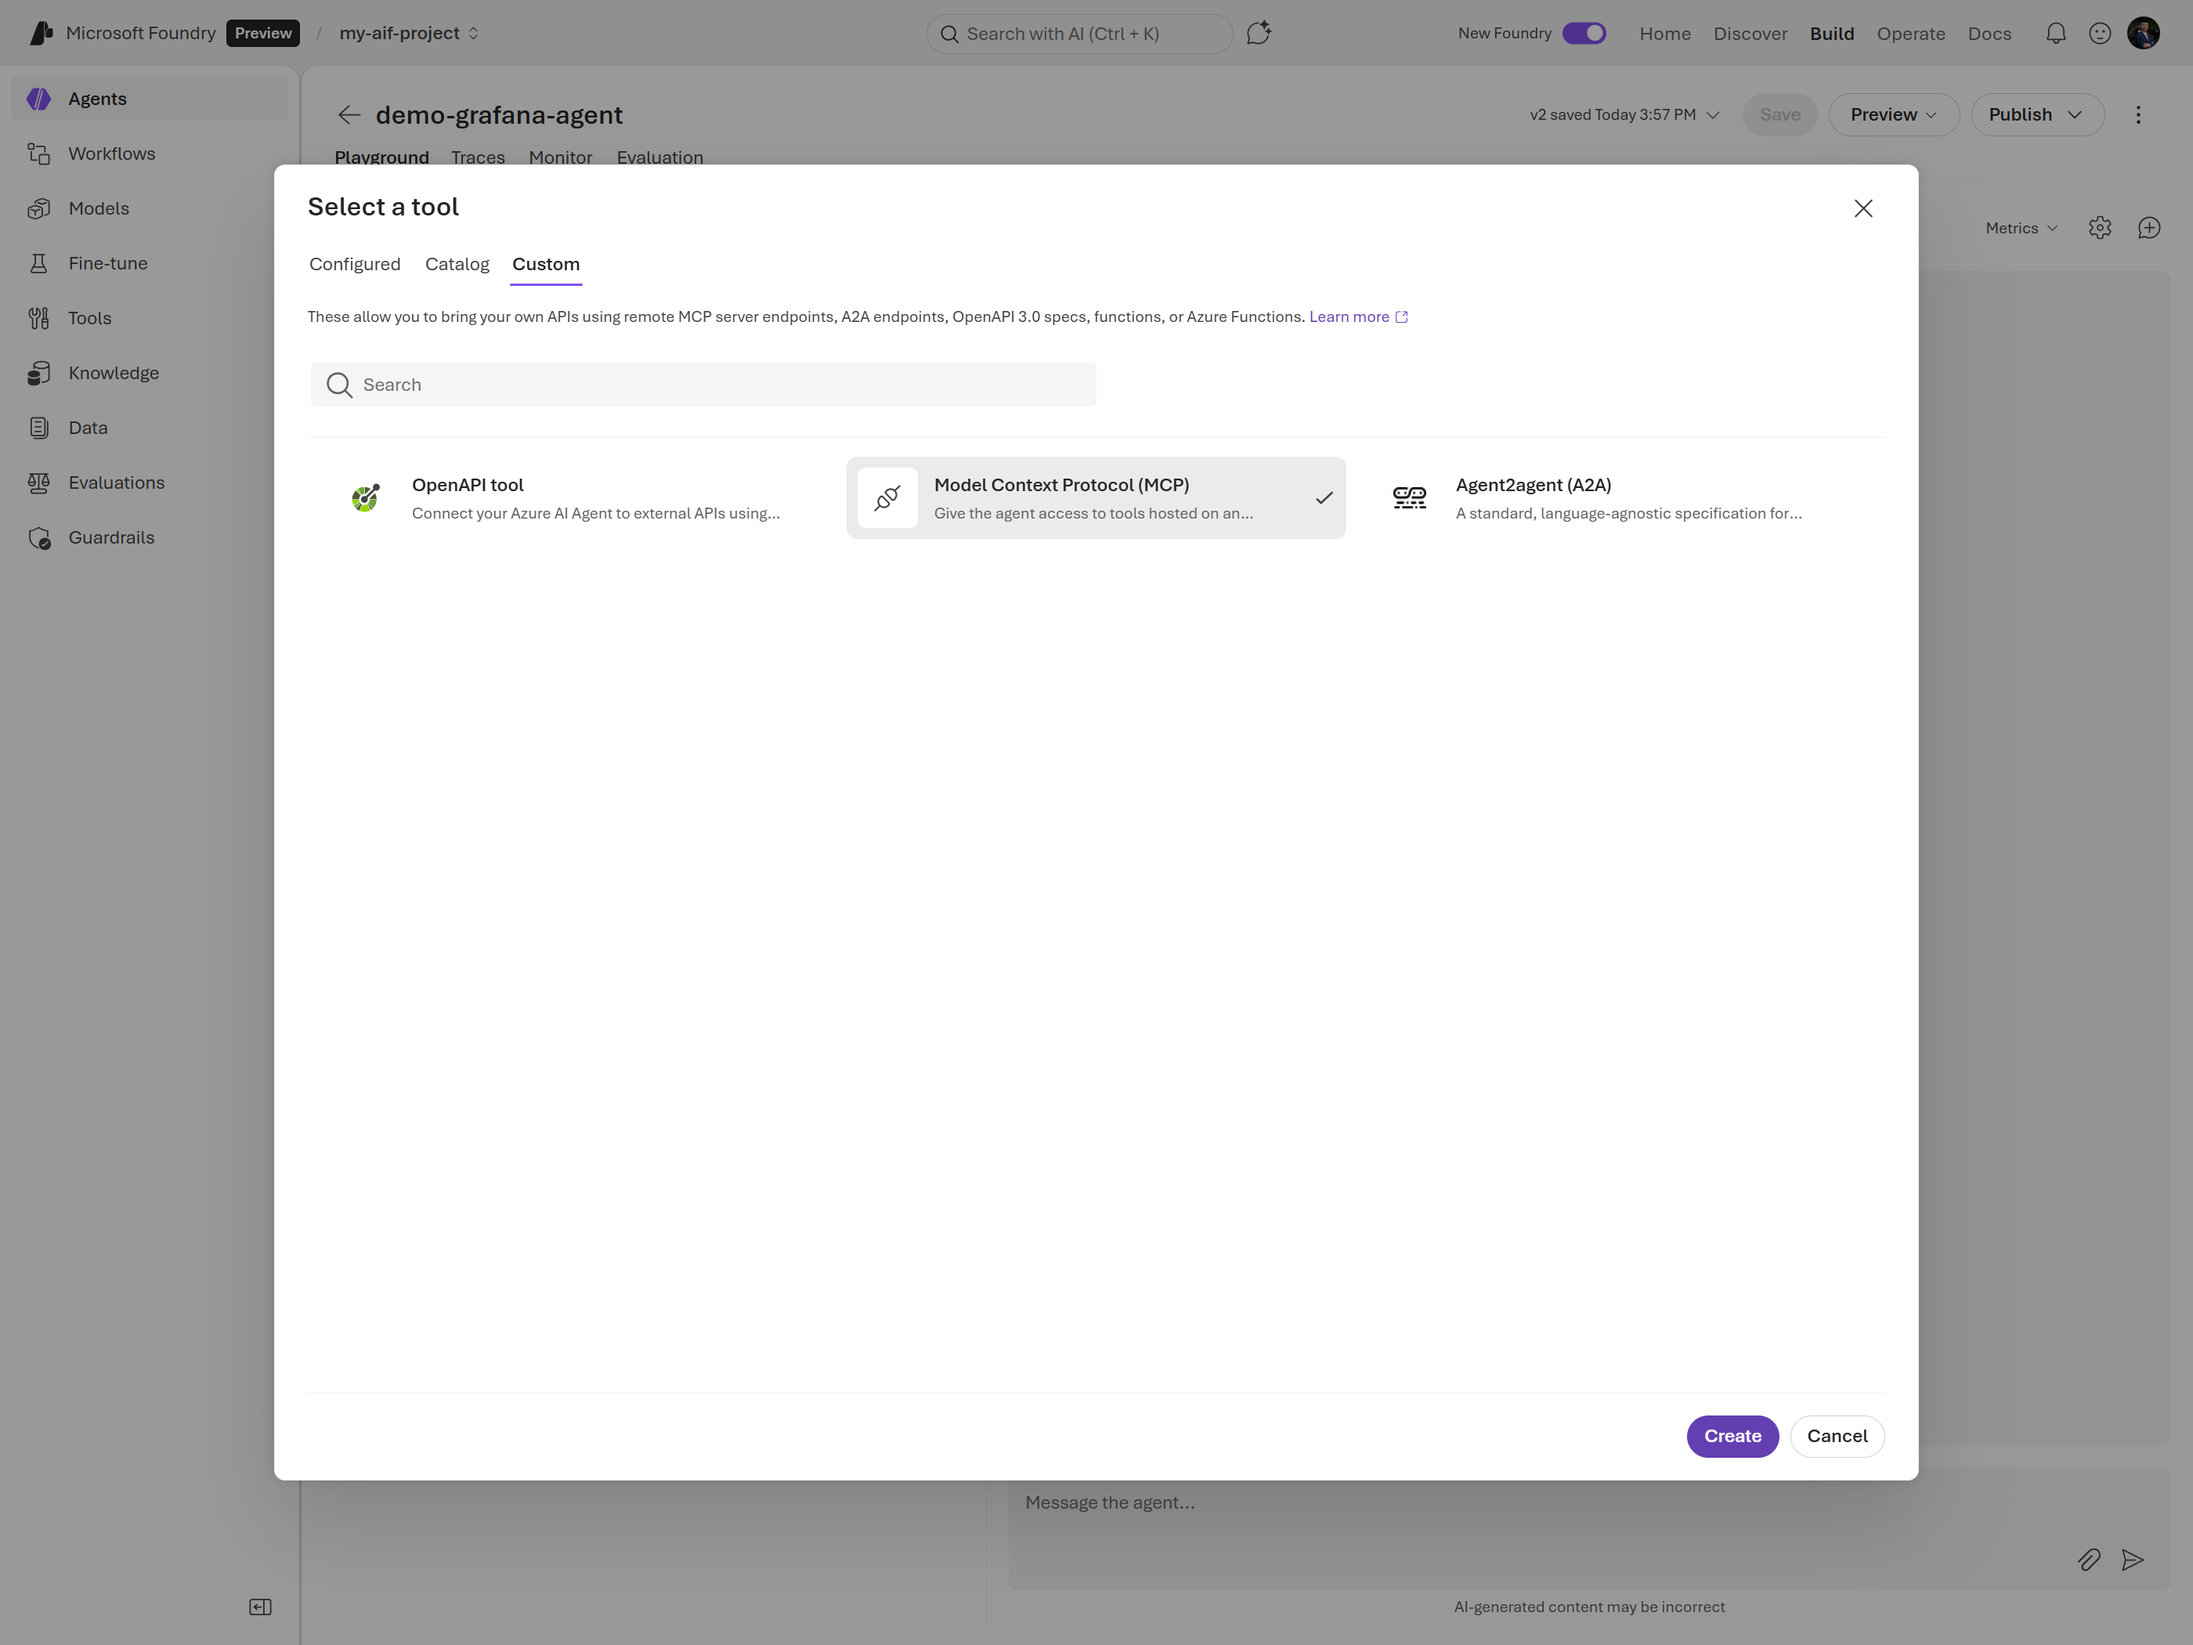
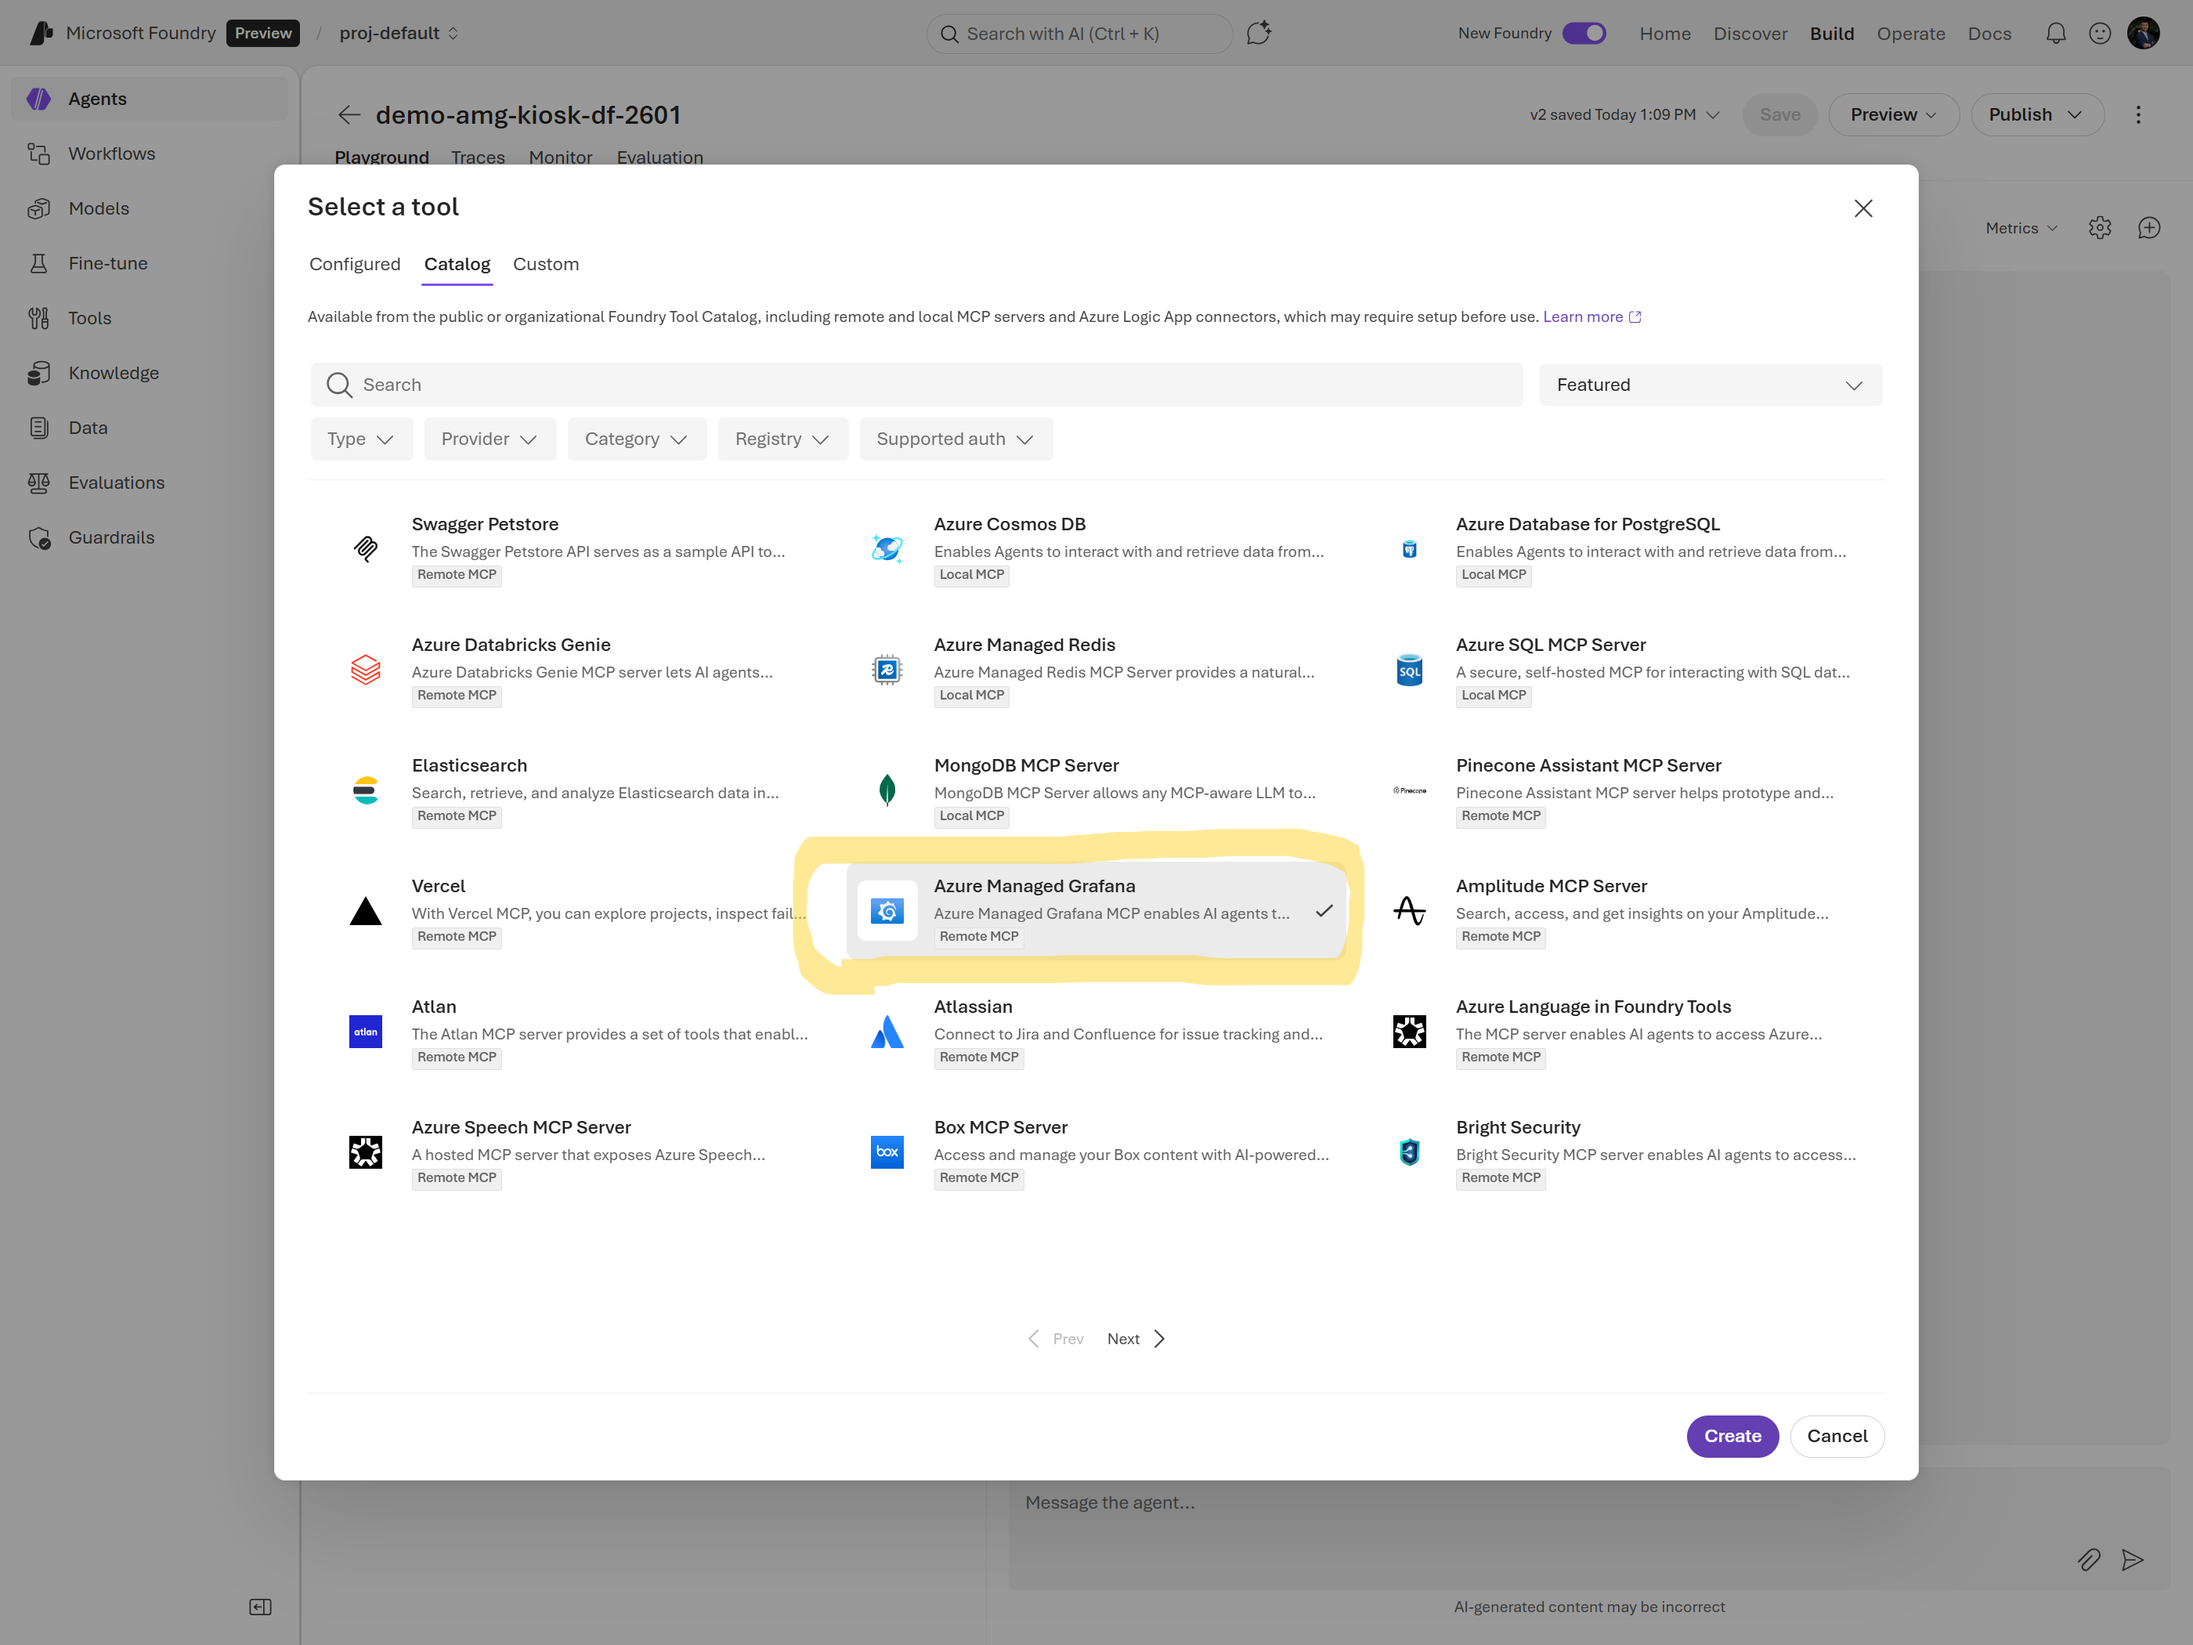
Update Foundry agent documentation for Azure Managed Grafana MCP setup, refining tool selection and configuration details.

diff --git a/samples/3-remote-mcp-foundry-agent/foundry-agent-amg-mcp.md b/samples/3-remote-mcp-foundry-agent/foundry-agent-amg-mcp.md
@@ -102,8 +102,8 @@ Your Azure AI Foundry project uses a managed identity to access resources. You n
 
 1. In your agent configuration, scroll to the **Tools** section
 2. Click **+ Add tool**
-3. Select **Custom** as the tool type
-4. Choose **Model Context Protocol (MCP)** as the protocol
+3. Select **Catalog** tab
+4. Choose **Azure Managed Grafana**
 
 ![Agent Add MCP](4-agent-add-mcp.png)
 
@@ -111,10 +111,10 @@ Your Azure AI Foundry project uses a managed identity to access resources. You n
 
 | Setting | Value |
 |---------|-------|
-| **Remote MCP Server endpoint** | `https://<your-grafana-endpoint>/api/azure-mcp` |
+| **workspace-hostname** | This is the endpoint we get from the first step.`my-doc-amg-dvgbauhma2esangn.wus2.grafana.azure.com` |
 | **Authentication** | Microsoft Entra |
 | **Type** | Project Managed Identity |
-| **Audience** | `ce34e7e5-485f-4d76-964f-b3d2b16d1e4f` |
+| **Audience** | Use the pre-populated value `ce34e7e5-485f-4d76-964f-b3d2b16d1e4f` |
 
 ![MCP Config](5-mcp-config.png)
 
